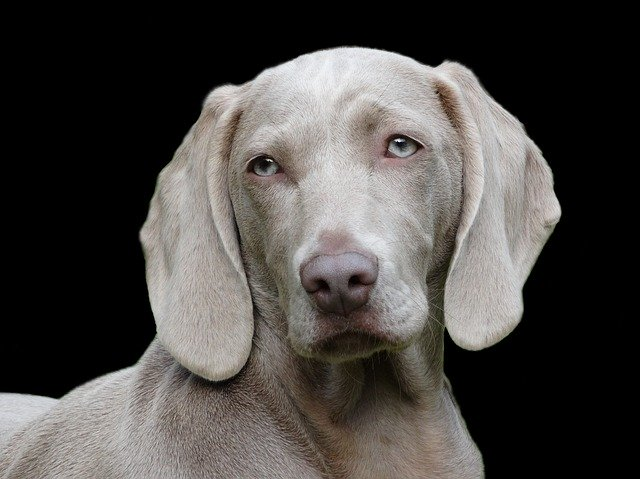
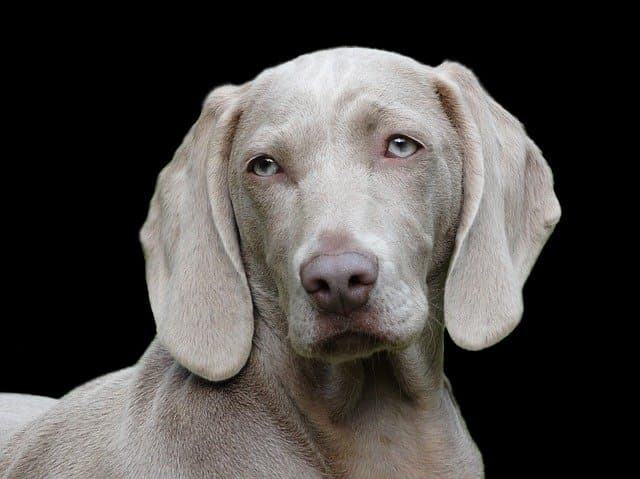
imagenMin

diff --git a/gulpfile.babel.js b/gulpfile.babel.js
@@ -79,7 +79,7 @@ gulp.task('sass', () => {
 
 gulp.task('imgMin', () => {
   return gulp
-    .src('./src/images/*')
+    .src('./src/images/**/*')
     .pipe(plumber())
     .pipe(
       mode.production(
@@ -115,7 +115,9 @@ gulp.task('default', () => {
   gulp.watch('./src/views/**/*.pug', gulp.series('views')).on('change', reload);
   gulp.watch('./src/images/**/*.(svg|jpg|ico|png|jpeg)', gulp.series('imgMin'));
   gulp.watch('./src/scss/**/*.scss', gulp.series('sass'));
-  gulp.watch('./src/js/**/*.js', gulp.series('browserify')).on('change', reload);
+  gulp
+    .watch('./src/js/**/*.js', gulp.series('browserify'))
+    .on('change', reload);
 });
 
 export const build = gulp.series(

diff --git a/src/js/test.js b/src/js/test.js
@@ -1,4 +1,4 @@
-console.log('test!!')
+console.log('test!!');
 
 export class Person {
   constructor(name, city) {
@@ -6,5 +6,3 @@ export class Person {
     this.city = city;
   }
 }
-
-
